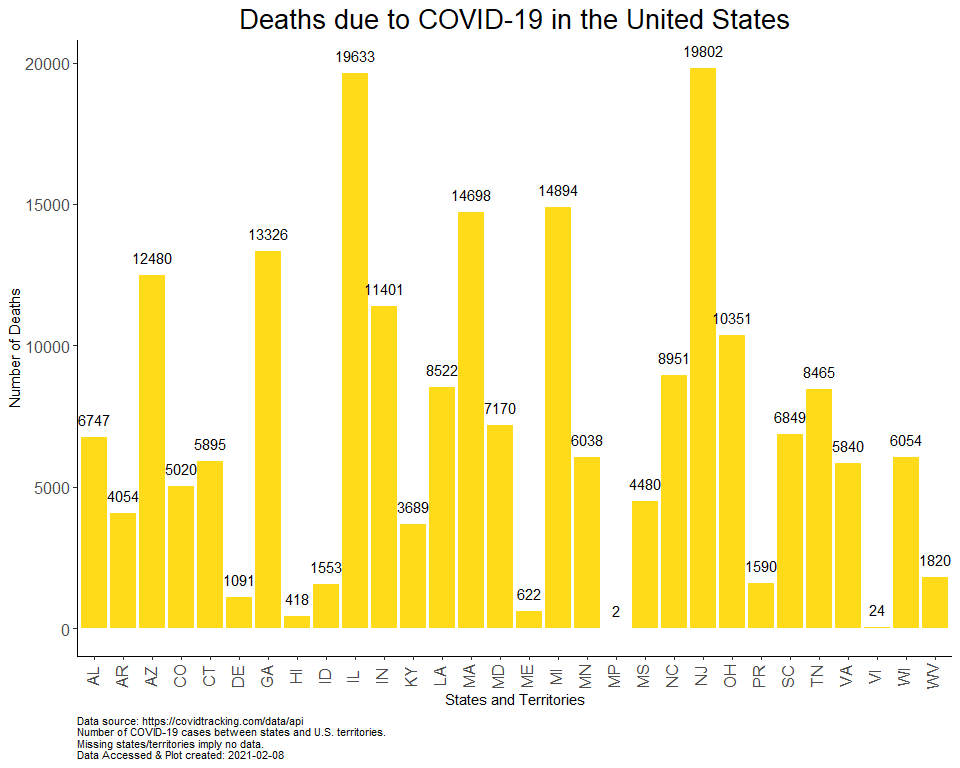
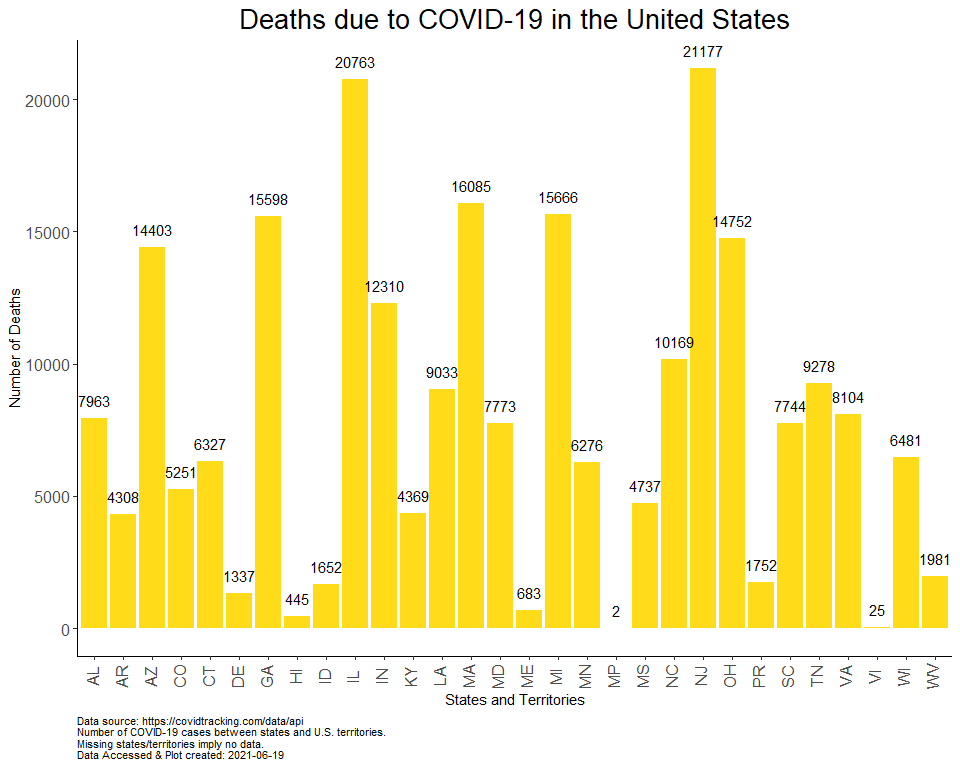
Graph changes

diff --git a/R/README.md b/R/README.md
@@ -18,96 +18,103 @@ head(data)
 ```
 
     ##       date state positive probableCases negative pending totalTestResultsSource
-    ## 1 20210207    AK    53279            NA       NA      NA        totalTestsViral
-    ## 2 20210207    AL   472423        101367  1816273      NA  totalTestsPeopleViral
-    ## 3 20210207    AR   306736         62862  2285451      NA        totalTestsViral
-    ## 4 20210207    AS        0            NA     2140      NA        totalTestsViral
-    ## 5 20210207    AZ   780637         50509  2818265      NA        totalTestsViral
-    ## 6 20210207    CA  3335926            NA       NA      NA        totalTestsViral
+    ## 1 20210307    AK    56886            NA       NA      NA        totalTestsViral
+    ## 2 20210307    AL   499819        107742  1931711      NA  totalTestsPeopleViral
+    ## 3 20210307    AR   324818         69092  2480716      NA        totalTestsViral
+    ## 4 20210307    AS        0            NA     2140      NA        totalTestsViral
+    ## 5 20210307    AZ   826454         56519  3073010      NA        totalTestsViral
+    ## 6 20210307    CA  3501394            NA       NA      NA        totalTestsViral
     ##   totalTestResults hospitalizedCurrently hospitalizedCumulative inIcuCurrently
-    ## 1          1536911                    44                   1219             NA
-    ## 2          2187329                  1513                  43005             NA
-    ## 3          2529325                   781                  14066            270
+    ## 1          1731628                    33                   1293             NA
+    ## 2          2323788                   494                  45976             NA
+    ## 3          2736442                   335                  14926            141
     ## 4             2140                    NA                     NA             NA
-    ## 5          6982148                  2910                  54657            838
-    ## 6         43994322                 12476                     NA           3339
+    ## 5          7908105                   963                  57907            273
+    ## 6         49646014                  4291                     NA           1159
     ##   inIcuCumulative onVentilatorCurrently onVentilatorCumulative recovered
-    ## 1              NA                    11                     NA        NA
-    ## 2            2576                    NA                   1460    252880
-    ## 3              NA                   126                   1458    285306
+    ## 1              NA                     2                     NA        NA
+    ## 2            2676                    NA                   1515    295690
+    ## 3              NA                    65                   1533    315517
     ## 4              NA                    NA                     NA        NA
-    ## 5              NA                   561                     NA    107979
+    ## 5              NA                   143                     NA        NA
     ## 6              NA                    NA                     NA        NA
-    ##   dataQualityGrade    lastUpdateEt         dateModified checkTimeEt death
-    ## 1                A  2/5/2021 03:59 2021-02-05T03:59:00Z 02/04 22:59   279
-    ## 2                A  2/7/2021 11:00 2021-02-07T11:00:00Z 02/07 06:00  8515
-    ## 3               A+  2/6/2021 00:00 2021-02-06T00:00:00Z 02/05 19:00  5076
-    ## 4              N/A 12/1/2020 00:00 2020-12-01T00:00:00Z 11/30 19:00     0
-    ## 5               A+  2/7/2021 00:00 2021-02-07T00:00:00Z 02/06 19:00 14048
-    ## 6                B  2/7/2021 02:59 2021-02-07T02:59:00Z 02/06 21:59 43942
-    ##   hospitalized          dateChecked totalTestsViral positiveTestsViral
-    ## 1         1219 2021-02-05T03:59:00Z         1536911              64404
-    ## 2        43005 2021-02-07T11:00:00Z              NA                 NA
-    ## 3        14066 2021-02-06T00:00:00Z         2529325                 NA
-    ## 4           NA 2020-12-01T00:00:00Z            2140                 NA
-    ## 5        54657 2021-02-07T00:00:00Z         6982148                 NA
-    ## 6           NA 2021-02-07T02:59:00Z        43994322                 NA
-    ##   negativeTestsViral positiveCasesViral deathConfirmed deathProbable
-    ## 1            1470760                 NA             NA            NA
-    ## 2                 NA             371056           6747          1768
-    ## 3            2285451             243874           4054          1022
-    ## 4                 NA                  0             NA            NA
-    ## 5                 NA             730128          12480          1568
-    ## 6                 NA            3335926             NA            NA
-    ##   totalTestEncountersViral totalTestsPeopleViral totalTestsAntibody
-    ## 1                       NA                    NA                 NA
-    ## 2                       NA               2187329                 NA
-    ## 3                       NA                    NA                 NA
-    ## 4                       NA                    NA                 NA
-    ## 5                       NA               3548393             423601
-    ## 6                       NA                    NA                 NA
-    ##   positiveTestsAntibody negativeTestsAntibody totalTestsPeopleAntibody
-    ## 1                    NA                    NA                       NA
-    ## 2                    NA                    NA                   109260
-    ## 3                    NA                    NA                       NA
-    ## 4                    NA                    NA                       NA
-    ## 5                    NA                    NA                       NA
-    ## 6                    NA                    NA                       NA
-    ##   positiveTestsPeopleAntibody negativeTestsPeopleAntibody
-    ## 1                          NA                          NA
-    ## 2                          NA                          NA
-    ## 3                          NA                          NA
-    ## 4                          NA                          NA
-    ## 5                          NA                          NA
-    ## 6                          NA                          NA
-    ##   totalTestsPeopleAntigen positiveTestsPeopleAntigen totalTestsAntigen
-    ## 1                      NA                         NA                NA
-    ## 2                      NA                         NA                NA
-    ## 3                  389367                      73756                NA
-    ## 4                      NA                         NA                NA
-    ## 5                      NA                         NA                NA
-    ## 6                      NA                         NA                NA
-    ##   positiveTestsAntigen fips positiveIncrease negativeIncrease   total
-    ## 1                   NA    2                0                0   53279
-    ## 2                   NA    1             1112             4462 2288696
-    ## 3                   NA    5              672             8180 2592187
-    ## 4                   NA   60                0                0    2140
-    ## 5                   NA    4             1544            16776 3598902
-    ## 6                   NA    6            15064                0 3335926
-    ##   totalTestResultsIncrease  posNeg deathIncrease hospitalizedIncrease
-    ## 1                        0   53279             0                    0
-    ## 2                     5308 2288696             2                    0
-    ## 3                     8840 2592187            15                   17
-    ## 4                        0    2140             0                    0
-    ## 5                    59968 3598902            37                  150
-    ## 6                   275167 3335926           295                    0
+    ##      lastUpdateEt         dateModified checkTimeEt death hospitalized
+    ## 1  3/5/2021 03:59 2021-03-05T03:59:00Z 03/04 22:59   305         1293
+    ## 2  3/7/2021 11:00 2021-03-07T11:00:00Z 03/07 06:00 10148        45976
+    ## 3  3/7/2021 00:00 2021-03-07T00:00:00Z 03/06 19:00  5319        14926
+    ## 4 12/1/2020 00:00 2020-12-01T00:00:00Z 11/30 19:00     0           NA
+    ## 5  3/7/2021 00:00 2021-03-07T00:00:00Z 03/06 19:00 16328        57907
+    ## 6  3/7/2021 02:59 2021-03-07T02:59:00Z 03/06 21:59 54124           NA
+    ##   hospitalizedDischarged          dateChecked totalTestsViral
+    ## 1                     NA 2021-03-05T03:59:00Z         1731628
+    ## 2                     NA 2021-03-07T11:00:00Z              NA
+    ## 3                     NA 2021-03-07T00:00:00Z         2736442
+    ## 4                     NA 2020-12-01T00:00:00Z            2140
+    ## 5                 118932 2021-03-07T00:00:00Z         7908105
+    ## 6                     NA 2021-03-07T02:59:00Z        49646014
+    ##   positiveTestsViral negativeTestsViral positiveCasesViral deathConfirmed
+    ## 1              68693            1660758                 NA             NA
+    ## 2                 NA                 NA             392077           7963
+    ## 3                 NA            2480716             255726           4308
+    ## 4                 NA                 NA                  0             NA
+    ## 5                 NA                 NA             769935          14403
+    ## 6                 NA                 NA            3501394             NA
+    ##   deathProbable totalTestEncountersViral totalTestsPeopleViral
+    ## 1            NA                       NA                    NA
+    ## 2          2185                       NA               2323788
+    ## 3          1011                       NA                    NA
+    ## 4            NA                       NA                    NA
+    ## 5          1925                       NA               3842945
+    ## 6            NA                       NA                    NA
+    ##   totalTestsAntibody positiveTestsAntibody negativeTestsAntibody
+    ## 1                 NA                    NA                    NA
+    ## 2                 NA                    NA                    NA
+    ## 3                 NA                    NA                    NA
+    ## 4                 NA                    NA                    NA
+    ## 5             580569                    NA                    NA
+    ## 6                 NA                    NA                    NA
+    ##   totalTestsPeopleAntibody positiveTestsPeopleAntibody
+    ## 1                       NA                          NA
+    ## 2                   119757                          NA
+    ## 3                       NA                          NA
+    ## 4                       NA                          NA
+    ## 5                   444089                          NA
+    ## 6                       NA                          NA
+    ##   negativeTestsPeopleAntibody totalTestsPeopleAntigen
+    ## 1                          NA                      NA
+    ## 2                          NA                      NA
+    ## 3                          NA                  481311
+    ## 4                          NA                      NA
+    ## 5                          NA                      NA
+    ## 6                          NA                      NA
+    ##   positiveTestsPeopleAntigen totalTestsAntigen positiveTestsAntigen fips
+    ## 1                         NA                NA                   NA    2
+    ## 2                         NA                NA                   NA    1
+    ## 3                      81803                NA                   NA    5
+    ## 4                         NA                NA                   NA   60
+    ## 5                         NA                NA                   NA    4
+    ## 6                         NA                NA                   NA    6
+    ##   positiveIncrease negativeIncrease   total totalTestResultsIncrease  posNeg
+    ## 1                0                0   56886                        0   56886
+    ## 2              408             2087 2431530                     2347 2431530
+    ## 3              165             3267 2805534                     3380 2805534
+    ## 4                0                0    2140                        0    2140
+    ## 5             1335            13678 3899464                    45110 3899464
+    ## 6             3816                0 3501394                   133186 3501394
+    ##   dataQualityGrade deathIncrease hospitalizedIncrease
+    ## 1               NA             0                    0
+    ## 2               NA            -1                    0
+    ## 3               NA            22                   11
+    ## 4               NA             0                    0
+    ## 5               NA             5                   44
+    ## 6               NA           258                    0
     ##                                       hash commercialScore negativeRegularScore
-    ## 1 07a5d43f958541e9cdabb5ea34c8fb481835e130               0                    0
-    ## 2 bde38ab9d426d29691fb40de1edeb285b1674fdc               0                    0
-    ## 3 c2f88044a45b0669c5355b2cddbaca15de43c7f3               0                    0
-    ## 4 80aa91d3878a87a2e94edb3586244a5df450d0bb               0                    0
-    ## 5 380468038ad1b440ada7da318650aefc8e8a772d               0                    0
-    ## 6 8652c6d586b9f8ea93717d06d90c6cf4e2a7cc9b               0                    0
+    ## 1 dc4bccd4bb885349d7e94d6fed058e285d4be164               0                    0
+    ## 2 997207b430824ea40b8eb8506c19a93e07bc972e               0                    0
+    ## 3 50921aeefba3e30d31623aa495b47fb2ecc72fae               0                    0
+    ## 4 f77912d0b80d579fbb6202fa1a90554fc4dc1443               0                    0
+    ## 5 0437a7a96f4471666f775e63e86923eb5cbd8cdf               0                    0
+    ## 6 63c5c0fd2daef2fb65150e9db486de98ed3f7b72               0                    0
     ##   negativeScore positiveScore score grade
     ## 1             0             0     0    NA
     ## 2             0             0     0    NA
@@ -264,18 +271,18 @@ rm(dates)
 Observed positive cases
 
 ``` r
+state_data <- state_data %>% 
+  mutate(Date = ymd(Date))
+
 ggplot(data = state_data) +
   geom_point(aes(x = Date, y = positive, color = state)) +
   ylab("Daily Positive Cases") +
   labs(color = "State") +
-  theme_minimal()# +
+  theme_minimal()+
+  scale_x_date(date_breaks = "2 weeks", date_labels = "%b")
 ```
 
 ![](README_files/figure-gfm/unnamed-chunk-9-1.png)<!-- -->
-
-``` r
-  #com_theme
-```
 
 ## Visualize
 
@@ -286,7 +293,7 @@ Prepare a scatter plot animation for multiple countries cases vs deaths.
 First read in and wrangle data.
 
 ``` r
-coun_res <- GET("https://corona.lmao.ninja/v2/historical?lastdays=100") # read in data
+coun_res <- GET("https://corona.lmao.ninja/v2/historical?lastdays=all") # read in data
 
 coun_data = fromJSON(rawToChar(coun_res$content)) # Convert json to tabular data
 
@@ -313,16 +320,25 @@ index <- coun_data %>%
   pull(country) %in% countrylist %>% 
   which()
 
-# Dates to capture (1st and 15th day of each month)
+# Dates to capture (1st and 15th day of each month) for 2020 and 2021
 
-captdate <- c(paste(c(1:12), rep("1/20", times = 12), sep = "/"), # first day of month
+captdate_2020 <- c(paste(c(1:12), rep("1/20", times = 12), sep = "/"), # first day of month
            paste(c(1:12), rep("15/20", times = 12), sep = "/")) %>%  # 15th day of month
   mdy()
 
+captdate <- c(c(paste(c(1:12), rep("1/21", times = 12), sep = "/"), # first day of month
+           paste(c(1:12), rep("15/21", times = 12), sep = "/")) %>%  # 15th day of month
+  mdy(),
+captdate_2020)
+
+remove(captdate_2020)
+
+# Filter for specific countries
 countries <- coun_data %>% 
   filter(country %in% countrylist) %>%
   pull(country)
 
+# Save provinces
 province <- coun_data %>% 
   filter(country %in% countrylist) %>%
   pull(province)
@@ -455,31 +471,44 @@ sum_total
     ## # A tibble: 16 x 7
     ##    Country Cases_mean Cases_sd Deaths_mean Deaths_sd Recovered_mean Recovered_sd
     ##    <chr>        <dbl>    <dbl>       <dbl>     <dbl>          <dbl>        <dbl>
-    ##  1 Austra~     27833.     200.        908.     0.577         25529         149. 
-    ##  2 Brazil    6191405.  624274.     170622   9883.          5555144.     519240. 
-    ##  3 China       92694.    1400.       4745.     8.02          86999         886. 
-    ##  4 Cuba         8124.    1141.        133      4.24           7400.        973. 
-    ##  5 Ghana       50796     2196.        323      2.94          49514.       2142. 
-    ##  6 India     9126600   746747.     133724.  9378.          8545868.     830398. 
-    ##  7 Iran       870496   223143.      44522.  7692.           639187      151535. 
-    ##  8 Italy     1344835.  511251.      51568. 11968.           659798.     382811. 
-    ##  9 Japan      139070.   36631.       2085    359.           115718.      29578. 
-    ## 10 Mexico    1081370.  147098.     103075. 10062.           826153       81414. 
-    ## 11 Niger        1619.     519.         74      5.94           1209.         87.3
-    ## 12 Peru       946784.   36208.      35593.   985.           874238       41363. 
-    ## 13 South ~    785956.   64427.      21239.  1859.           711576.      47548. 
-    ## 14 Spain     1515731.  253478.      42640.  5497.           150376           0  
-    ## 15 UK        1487901   367621.      55747.  7981.             3411         549. 
-    ## 16 USA      12762681  3288482.     263404  31566.          3258011     2270783.
+    ##  1 Austra~     19723.   1.15e4       563.      407.          15018.        9379.
+    ##  2 Brazil    5960934.   5.54e6    163550.   145722.        5208338.     4947252.
+    ##  3 China       89278.   1.61e4      4346.     1019.          80804.       22146.
+    ##  4 Cuba        28898.   4.55e4       223.      277.          26699.       43038.
+    ##  5 Ghana       44782.   3.40e4       320.      278.          42338.       33523.
+    ##  6 India     7631980.   8.23e6    103264.    99129.        6927368.     7575165.
+    ##  7 Iran       919819.   9.37e5     34377.    27417.         757767.      787215.
+    ##  8 Italy     1437246.   1.55e6     56400.    40577.        1135049.     1364010.
+    ##  9 Japan      210073.   2.45e5      3730.     4250.         185843.      223504.
+    ## 10 Mexico    1009625.   9.11e5     94355.    81940.         793961.      718156.
+    ## 11 Niger        2289.   1.99e3        92.7      66.5          1975.        1834.
+    ## 12 Peru       794102.   6.47e5     77353.    58877.         719690.      640007.
+    ## 13 South ~    752998.   6.37e5     22642.    21698.         677551.      602124.
+    ## 14 Spain     1439070.   1.39e6     40735.    25562.         125313.       53108.
+    ## 15 UK        1738954.   1.84e6     62175.    45210.           5261         5560.
+    ## 16 USA      13323786.   1.27e7    268042.   208470.         893061.     1434813.
 
 Per Capita Deaths
 
 ``` r
-ggplot(total) +
-  geom_histogram(aes(capitaDeaths),
+tot_long <- total %>%  
+  select(Cases, Deaths, Recovered) %>% 
+  gather() %>% 
+  mutate(
+    Country = rep(total$Country, 3),
+    Date = rep(total$Date, 3)
+  )
+
+ggplot(tot_long) +
+  geom_histogram(aes(log(value), fill = key),
                  alpha = 0.8,
                  bins = 50) +
-  theme_minimal()
+  ggtitle("Daily Deaths") +
+  ylab("Count log-fold") +
+  xlab("Z-score") +
+  theme_minimal() +
+  facet_wrap(~ Country, ncol =3) +
+  text_theme
 ```
 
 ![](README_files/figure-gfm/unnamed-chunk-13-1.png)<!-- -->
